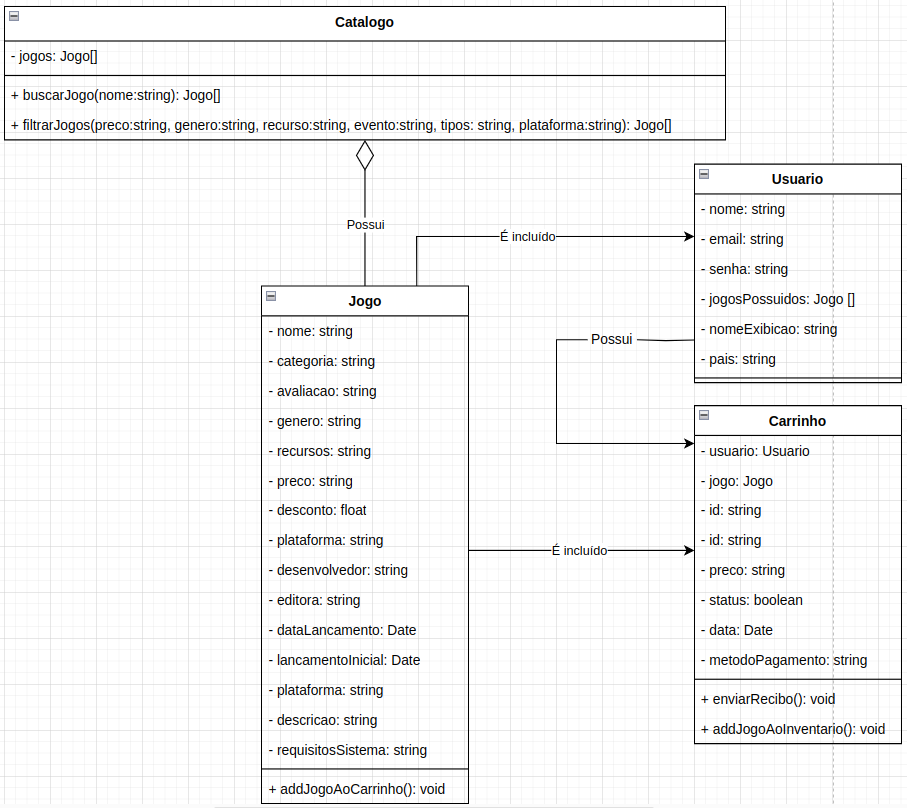
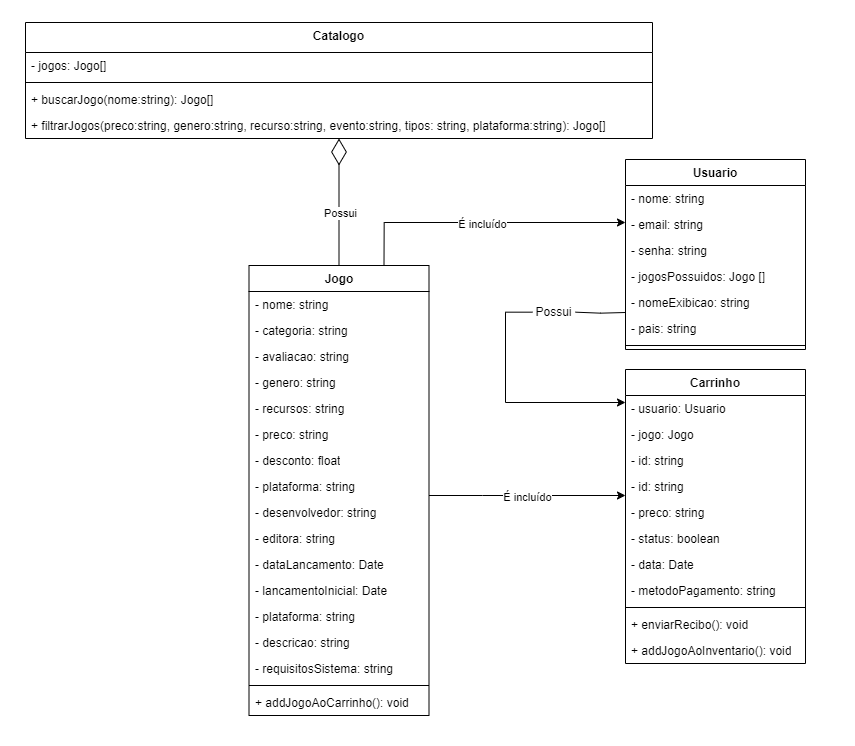
update imagens

diff --git a/docs/Modelagem/2.1.1.UMLEstaticos.md b/docs/Modelagem/2.1.1.UMLEstaticos.md
@@ -1,17 +1,8 @@
 # 2.1.1. Notação UML – Diagramas Estáticos
 
-**Foco_01:** Modelagem UML Estática
+## Introdução
 
-Entrega Mínima: 1 Modelo Estático (ESCOPO: Diagrama de Classes; Diagrama de Pacotes; Diagrama de Componentes ou Diagrama de Implantação).
-
-Apresentação (em sala) explicando o modelo estático especificado, com:
-(i) rastro claro aos membros participantes (MOSTRAR QUADRO DE PARTICIPAÇÕES);
-(ii) justificativas & senso crítico sobre o modelo;
-(iii) breve apresentação do modelo estático elaborado;
-e (iv) comentários gerais sobre o trabalho em equipe.
-Tempo da Apresentação: +/- 10min. Recomendação: Apresentar diretamente via Wiki ou GitPages do Projeto.
-
-A Wiki ou GitPages do Projeto deve conter um tópico dedicado ao Módulo Notação UML – Diagrama Estático, com 1 modelo, histórico de versões, referências, e demais detalhamentos gerados pela equipe nesse escopo.
+Na hora de escolher qual era o melhor diagrama estático para representar o projeto optamos por utilizar um Diagrama de Classes. Esse diagrama foi construido com na ferramenta Draw.io iterativamente com todo grupo.
 
 ## Diagrama de Classes
 
@@ -24,9 +15,17 @@ Um diagrama de classes UML é uma ferramenta fundamental para a modelagem de sis
 2. Cria relação Admin com o Jogo.
    - Identificamos depois de uma análise da quinta versão que estava faltando a relação entre Admin e Jogo.
 
+<center><strong>Figura 06 - Diagrama de Classes - V6.0 </strong></center>
+
+<center>
+
 ![Diagrama de Classes V6](../assets/DiagramaDeClassesV6.png)
 
-<center><strong>Figura 06 - Diagrama de Classes - V6.0 </strong></center>
+</center>
+
+<div style="text-align:center;">
+Autores: Luciano Ricardo, Pedro H., João Morbeck e Pedro B.
+</div>
 
 ### Versão 5.0
 
@@ -39,9 +38,17 @@ Um diagrama de classes UML é uma ferramenta fundamental para a modelagem de sis
 3. Mudança do relacionamento da classe Biblioteca.
    - Percebemos que fazia muito mais sentido a classe Biblioteca ter o relacionamento com o catálogo do que com jogo, pois a biblioteca é a mesma coisa que o catálogo, mas com a mudança de ser apenas com os jogos que o usuário possui.
 
+<center><strong>Figura 05 - Diagrama de Classes - V5.0 </strong></center>
+
+<center>
+
 ![Diagrama de Classes V5](../assets/DiagramaDeClassesV5.png)
 
-<center><strong>Figura 05 - Diagrama de Classes - V5.0 </strong></center>
+</center>
+
+<div style="text-align:center;">
+Autores: Raquel e Luciano Ricardo
+</div>
 
 ### Versão 4.0
 
@@ -51,9 +58,17 @@ Um diagrama de classes UML é uma ferramenta fundamental para a modelagem de sis
    - Com uma análise do diagrama da versão 3 percebemos que tínhamos esquecido de adicionar as formas de pagamento, assim adicionamos essas três classes que herdam os atributos e métodos da classe Pagamento.
 3. Alteração do nome da classe ClienteJogo para Biblioteca.
 
+<center><strong>Figura 04 - Diagrama de Classes - V4.0 </strong></center>
+
+<center>
+
 ![Diagrama de Classes V4](../assets/DiagramaDeClassesV4.png)
 
-<center><strong>Figura 04 - Diagrama de Classes - V4.0 </strong></center>
+</center>
+
+<div style="text-align:center;">
+Autores: Raquel, Pedro B. e Pedro C.
+</div>
 
 ### Versão 3.0
 
@@ -70,13 +85,19 @@ Após a segunda entrega e com conversas com a professora, percebemos que o nosso
 5. Inclusão das classes Pedido e Pagamento.
    - Identificamos que a nossa classe Carrinho estava muito sobrecarregada, com muitas funções que não faziam sentido estar dentro dela. Desta forma, criamos as classes Pagamento e Pedido para deixar melhor dividido os atributos e os métodos.
 
-![Diagrama de Classes V3](../assets/DiagramaDeClassesv3.png)
-
 <center><strong>Figura 03 - Diagrama de Classes - V3.0 </strong></center>
 
-### Versão 2.0
+<center>
 
-**Modificações Realizadas**
+![Diagrama de Classes V3](../assets/DiagramaDeClassesv3.png)
+
+</center>
+
+<div style="text-align:center;">
+Autores: Luciano Freitas, Sabrina e Pedro C.
+</div>
+
+### Versão 2.0
 
 Durante a criação do diagrama de sequência, identificamos algumas melhorias que poderiam ser aplicadas ao diagrama de classes para melhor refletir a funcionalidade do sistema. As principais modificações incluem:
 
@@ -90,29 +111,38 @@ Durante a criação do diagrama de sequência, identificamos algumas melhorias q
    - Usuário - Carrinho: Um carrinho é criado por um usuário.
    - Carrinho - Jogo: Um carrinho pode conter um jogo.
 
+<center><strong>Figura 02 - Diagrama de Classes - V2.0 </strong></center>
+
+<center>
+
 ![Diagrama de Classes V2](../assets/DiagramaDeClassesV2.png)
 
-<center><strong>Figura 01 - Diagrama de Classes - V2.0 </strong></center>
+</center>
 
 ### Versão 1.0
 
 No diagrama de classes original (versão 1.0), foram especificadas as classes principais do sistema, seus atributos e os relacionamentos necessários para a representação estática do projeto. Essa versão serviu como base para as melhorias implementadas na versão 2.0.
 
+<center><strong>Figura 01 - Diagrama de Classes - V1.0 </strong></center>
+
+<center>
+
 ![Diagrama de Classes V1](../assets/DiagramaDeClassesV1.png)
 
-<center><strong>Figura 02 - Diagrama de Classes - V1.0 </strong></center>
+</center>
 
 ## Histórico de versão
 
-| Data       | Versão | Atividade                                | Responsável                                                                             |
-| ---------- | ------ | ---------------------------------------- | --------------------------------------------------------------------------------------- |
-| 08/07/2024 | 1.0    | Adiciona descrição e Diagrama de Classes | [Marcus](https://github.com/marcusmartinss) e [João Matheus](https://github.com/JoaoSchmitz) |
-| 15/07/2024 | 2.0    | Terceira versão do diagrama de classes | [Luciano Freitas](https://github.com/luciano-freitas-melo), [Pedro Cabeceira](https://github.com/pkbceira03) e [Sabrina](https://github.com/sabrinaberno)  |
-| 15/07/2024 | 3.0    | Quarta versão do diagrama de classes | [Pedro Barbosa](https://github.com/pedrobarbosaocb),  [Pedro Cabeceira](https://github.com/pkbceira03), [Raquel](https://github.com/raqueleucaria) e [Sabrina](https://github.com/sabrinaberno)  |
-| 16/07/2024 | 4.0    | Quinta versão do diagrama de classes | [Luciano Ricardo](https://github.com/l-ricardo) e [Raquel](https://github.com/raqueleucaria)  |
-| 17/07/2024 | 5.0    | Sexta versão do diagrama de classes | [Luciano Ricardo](https://github.com/l-ricardo), [Pedro Henrique](https://github.com/phmelosilva) e [João Pedro](https://github.com/uMorbeck) |
-| 17/07/2024 | 5.1    | Revisão em reunião |[Alexia](https://github.com/alexianaa), [João Pedro](https://github.com/uMorbeck),[Luan mateus](https://github.com/luanduartee), [Luan Melo](https://github.com/Luanmq)  [Luciano Ricardo](https://github.com/l-ricardo),[Marcus](https://github.com/marcusmartinss), [Pedro Barbosa](https://github.com/pedrobarbosaocb), [Pedro Cabeceira](https://github.com/pkbceira03), [Pedro Henrique](https://github.com/phmelosilva),  [Raquel](https://github.com/raqueleucaria) e [Sabrina](https://github.com/sabrinaberno)  |
-| 19/07/2024 | 5.2   | Muda texto de introdução | [Pedro Cabeceira](https://github.com/pkbceira03) |
+| Data       | Versão | Atividade                                       | Responsável                                                                                                                                                                                                                                                                                                                                                                                                                                                                                                             |
+| ---------- | ------ | ----------------------------------------------- | ----------------------------------------------------------------------------------------------------------------------------------------------------------------------------------------------------------------------------------------------------------------------------------------------------------------------------------------------------------------------------------------------------------------------------------------------------------------------------------------------------------------------- |
+| 08/07/2024 | 1.0    | Adiciona descrição e Diagrama de Classes        | [Marcus](https://github.com/marcusmartinss) e [João Matheus](https://github.com/JoaoSchmitz)                                                                                                                                                                                                                                                                                                                                                                                                                            |
+| 15/07/2024 | 2.0    | Terceira versão do diagrama de classes          | [Luciano Freitas](https://github.com/luciano-freitas-melo), [Pedro Cabeceira](https://github.com/pkbceira03) e [Sabrina](https://github.com/sabrinaberno)                                                                                                                                                                                                                                                                                                                                                               |
+| 15/07/2024 | 3.0    | Quarta versão do diagrama de classes            | [Pedro Barbosa](https://github.com/pedrobarbosaocb),  [Pedro Cabeceira](https://github.com/pkbceira03), [Raquel](https://github.com/raqueleucaria) e [Sabrina](https://github.com/sabrinaberno)                                                                                                                                                                                                                                                                                                                         |
+| 16/07/2024 | 4.0    | Quinta versão do diagrama de classes            | [Luciano Ricardo](https://github.com/l-ricardo) e [Raquel](https://github.com/raqueleucaria)                                                                                                                                                                                                                                                                                                                                                                                                                            |
+| 17/07/2024 | 5.0    | Sexta versão do diagrama de classes             | [Luciano Ricardo](https://github.com/l-ricardo), [Pedro Henrique](https://github.com/phmelosilva) e [João Pedro](https://github.com/uMorbeck)                                                                                                                                                                                                                                                                                                                                                                           |
+| 17/07/2024 | 5.1    | Revisão em reunião                              | [Alexia](https://github.com/alexianaa), [João Pedro](https://github.com/uMorbeck),[Luan mateus](https://github.com/luanduartee), [Luan Melo](https://github.com/Luanmq)  [Luciano Ricardo](https://github.com/l-ricardo),[Marcus](https://github.com/marcusmartinss), [Pedro Barbosa](https://github.com/pedrobarbosaocb), [Pedro Cabeceira](https://github.com/pkbceira03), [Pedro Henrique](https://github.com/phmelosilva),  [Raquel](https://github.com/raqueleucaria) e [Sabrina](https://github.com/sabrinaberno) |
+| 19/07/2024 | 5.2    | Muda texto de introdução                        | [Pedro Cabeceira](https://github.com/pkbceira03)                                                                                                                                                                                                                                                                                                                                                                                                                                                                        |
+| 19/07/2024 | 5.3    | Substitui imagens por outras de maior qualidade | [Luciano Ricardo](https://github.com/l-ricardo)                                                                                                                                                                                                                                                                                                                                                                                                                                                                         |
 
 ## Referências
 
